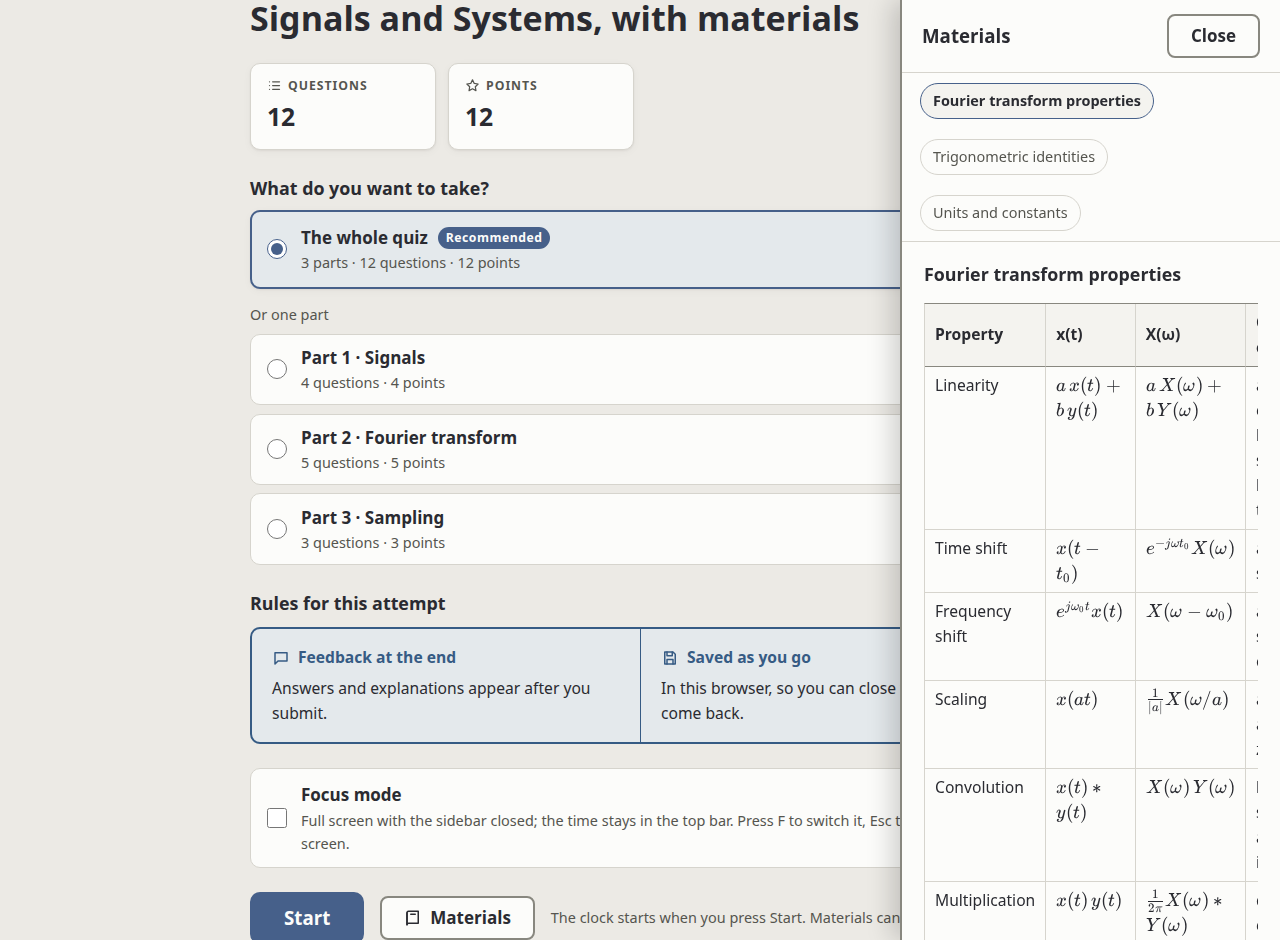
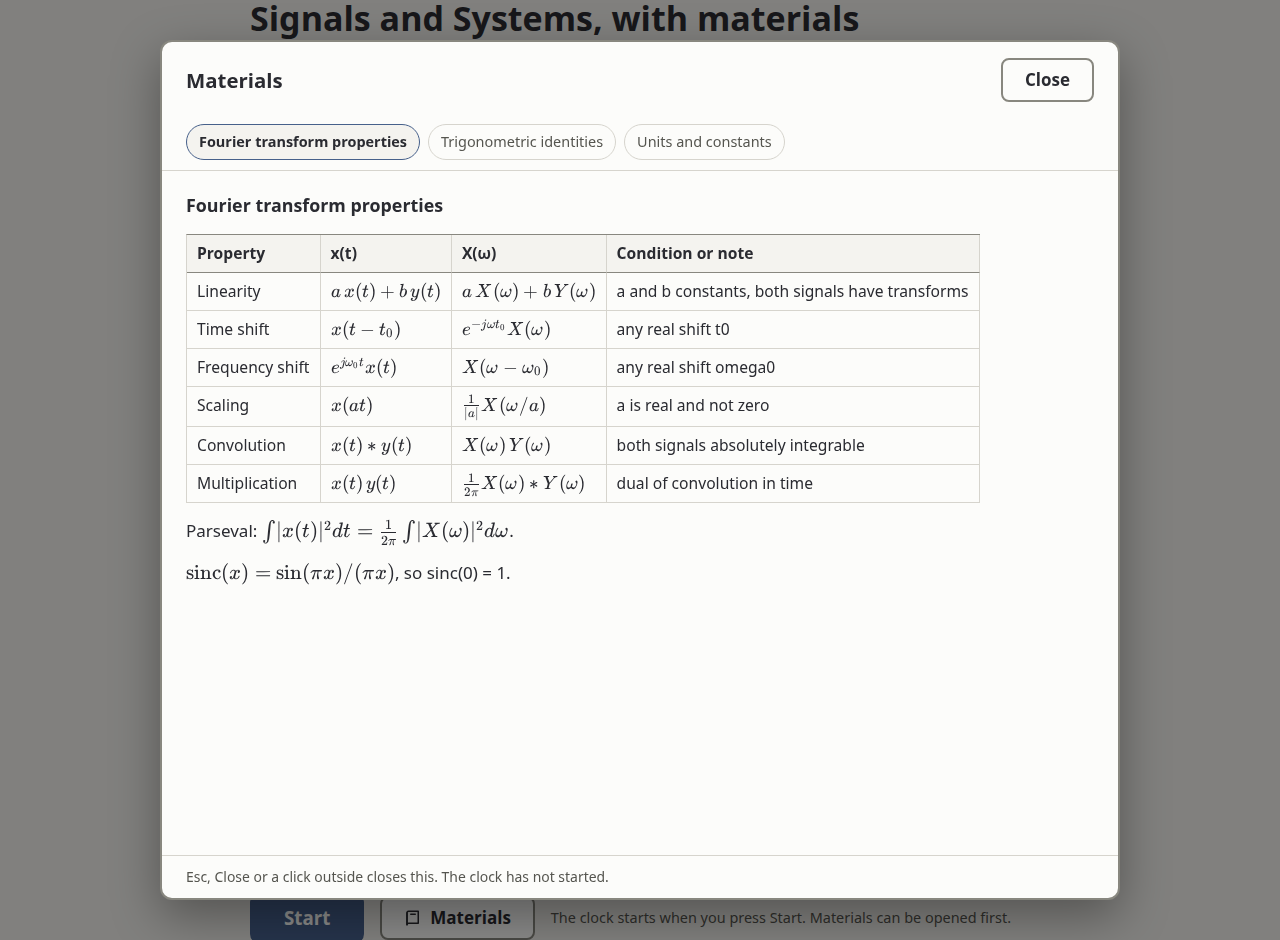
3z7 screens: the pop-up open in dark and light at 1280 x 940 and on a phone, en and vi; the start screen's Materials screens of 2f3 and 2f4 taken again

diff --git a/e2e/screens-3z7.spec.ts b/e2e/screens-3z7.spec.ts
@@ -1,0 +1,46 @@
+import { cpSync, mkdirSync, mkdtempSync } from "node:fs";
+import { tmpdir } from "node:os";
+import { join } from "node:path";
+import { expect, test } from "@playwright/test";
+import { root, run } from "./helpers";
+
+/**
+ * Screenshots of slice 3z7: the start screen's Materials pop-up (G126) open at 1280 x 940, dark and light, and on a
+ * phone at 390 x 844, in English and Vietnamese. Not part of `npm run check`: run with FULLMARK_SCREENS=1 npx
+ * playwright test e2e/screens-3z7.spec.ts --project=chromium. They land in docs/screens/3z7/.
+ */
+test.skip(!process.env.FULLMARK_SCREENS, "screenshots are made on request");
+
+const dir = join(root, "docs", "screens", "3z7");
+mkdirSync(dir, { recursive: true });
+const out = (name: string) => join(dir, `${name}.png`);
+
+/** The materials fixture built in one language. */
+function built(lang: "en" | "vi"): string {
+  const d = mkdtempSync(join(tmpdir(), "fm-e2e-3z7-"));
+  mkdirSync(join(d, ".git")); // it stops the search for fullmark.toml
+  cpSync(join(root, "test", "fixtures", "page"), d, { recursive: true });
+  run(d, "build", "materials.md", "--built-at", "2026-10-28T10:00:00+07:00", "--ui-lang", lang);
+  return `file:///${join(d, "materials.html").replaceAll("\\", "/")}`;
+}
+
+for (const lang of ["en", "vi"] as const) {
+  const url = built(lang);
+  for (const scheme of ["dark", "light"] as const) {
+    test(`the pop-up at 1280 x 940, ${lang}, ${scheme}`, async ({ page }) => {
+      await page.emulateMedia({ colorScheme: scheme });
+      await page.setViewportSize({ width: 1280, height: 940 });
+      await page.goto(url);
+      await page.locator("[data-action=materials]").click();
+      await expect(page.locator("dialog.fm-materials-dialog")).toBeVisible();
+      await page.screenshot({ path: out(`popup-${lang}-${scheme}`) });
+    });
+  }
+  test(`the pop-up on a phone, ${lang}`, async ({ page }) => {
+    await page.setViewportSize({ width: 390, height: 844 });
+    await page.goto(url);
+    await page.locator("[data-action=materials]").click();
+    await expect(page.locator("dialog.fm-materials-dialog")).toBeVisible();
+    await page.screenshot({ path: out(`popup-${lang}-phone`) });
+  });
+}
